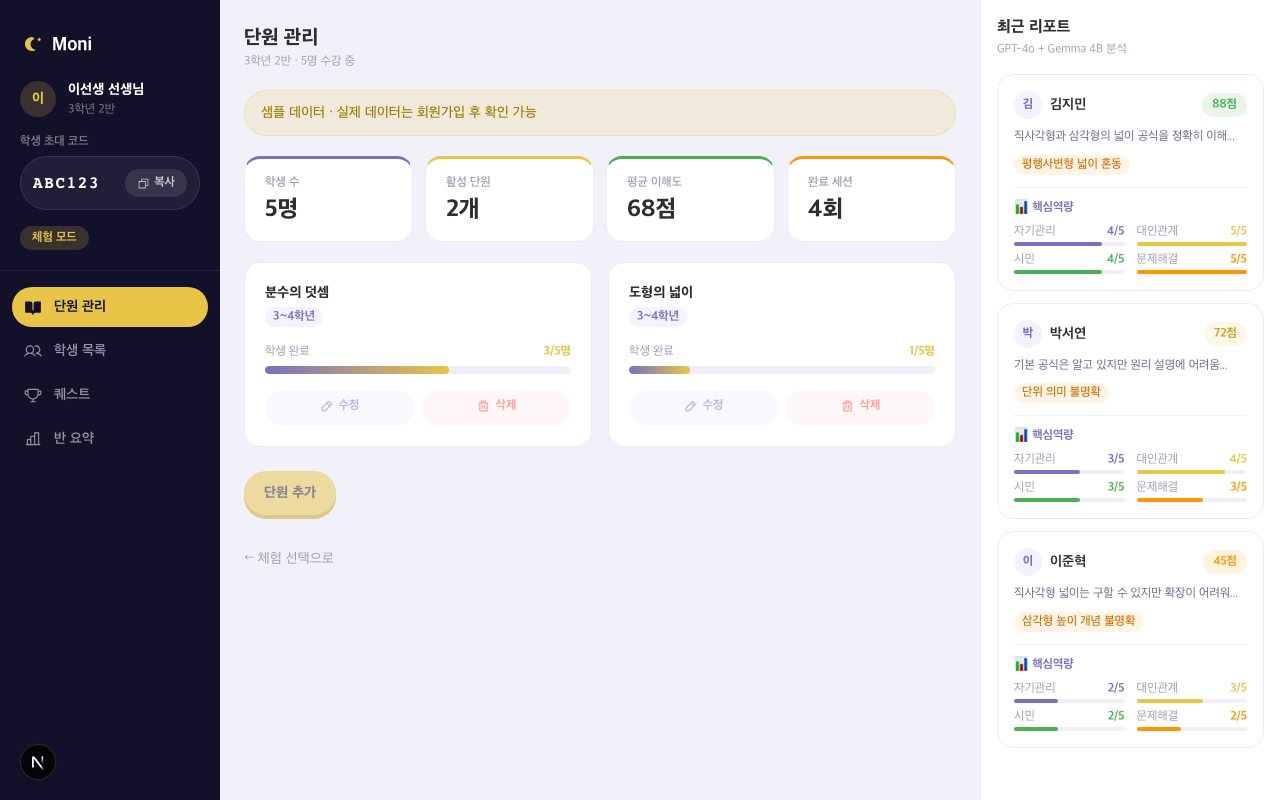
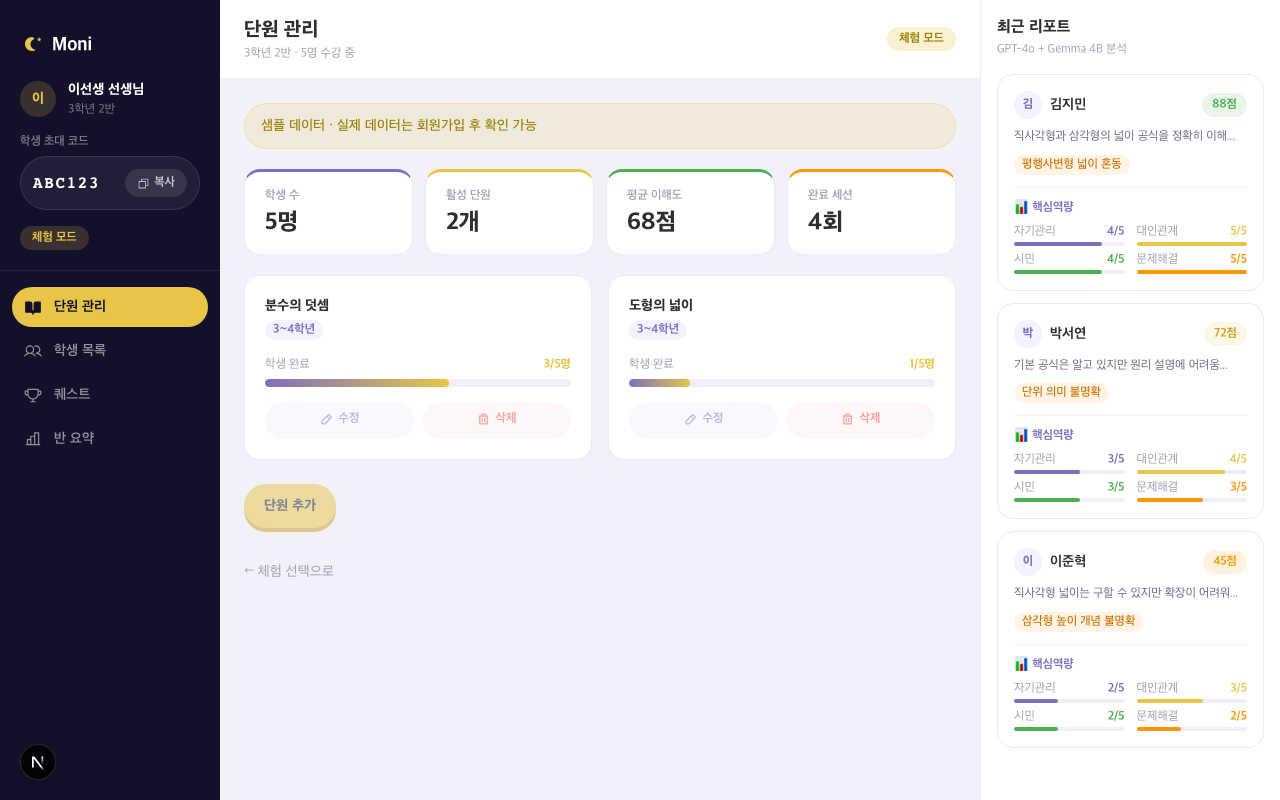
style: 선생님 대시보드에 흰색 헤더 바 추가 (디자인 일관성 통일)
- 대시보드도 학생목록/학생상세/반요약과 동일한 흰색 헤더 패턴 적용
- 체험 모드 배지 헤더에 추가
- 스크린샷 갱신

diff --git a/src/app/demo/teacher/page.tsx b/src/app/demo/teacher/page.tsx
@@ -301,14 +301,20 @@ export default function DemoTeacherPage() {
     <div className="flex h-screen overflow-hidden font-sans" style={{ background: '#F2F1FA' }}>
       <LeftNav />
 
-      <main className="flex-1 overflow-y-auto p-6">
-        <div className="mx-auto max-w-4xl">
-          <div className="mb-5 flex items-center justify-between">
-            <div>
-              <h1 className="text-xl font-extrabold" style={{ color: '#2D2F2F' }}>단원 관리</h1>
-              <p className="text-xs mt-0.5" style={{ color: '#9EA0B4' }}>{DEMO_CLASS.name} · 5명 수강 중</p>
-            </div>
+      <div className="flex-1 flex flex-col overflow-hidden">
+        {/* 흰색 헤더 */}
+        <div className="px-6 py-4 shrink-0 flex items-center justify-between"
+          style={{ background: '#FFFFFF', borderBottom: '1px solid #F0F0F0' }}>
+          <div>
+            <h1 className="text-xl font-extrabold" style={{ color: '#2D2F2F' }}>단원 관리</h1>
+            <p className="text-xs mt-0.5" style={{ color: '#9EA0B4' }}>{DEMO_CLASS.name} · 5명 수강 중</p>
           </div>
+          <span className="rounded-full px-3 py-1 text-xs font-bold"
+            style={{ background: 'rgba(232,197,71,0.25)', color: '#9B7E00' }}>체험 모드</span>
+        </div>
+
+        <main className="flex-1 overflow-y-auto p-6">
+        <div className="mx-auto max-w-4xl">
 
           <div
             className="mb-5 w-full rounded-2xl px-4 py-3 text-sm font-medium"
@@ -342,6 +348,7 @@ export default function DemoTeacherPage() {
           </div>
         </div>
       </main>
+      </div>
 
       <RightSidebar />
       <DemoTutorialOverlay
